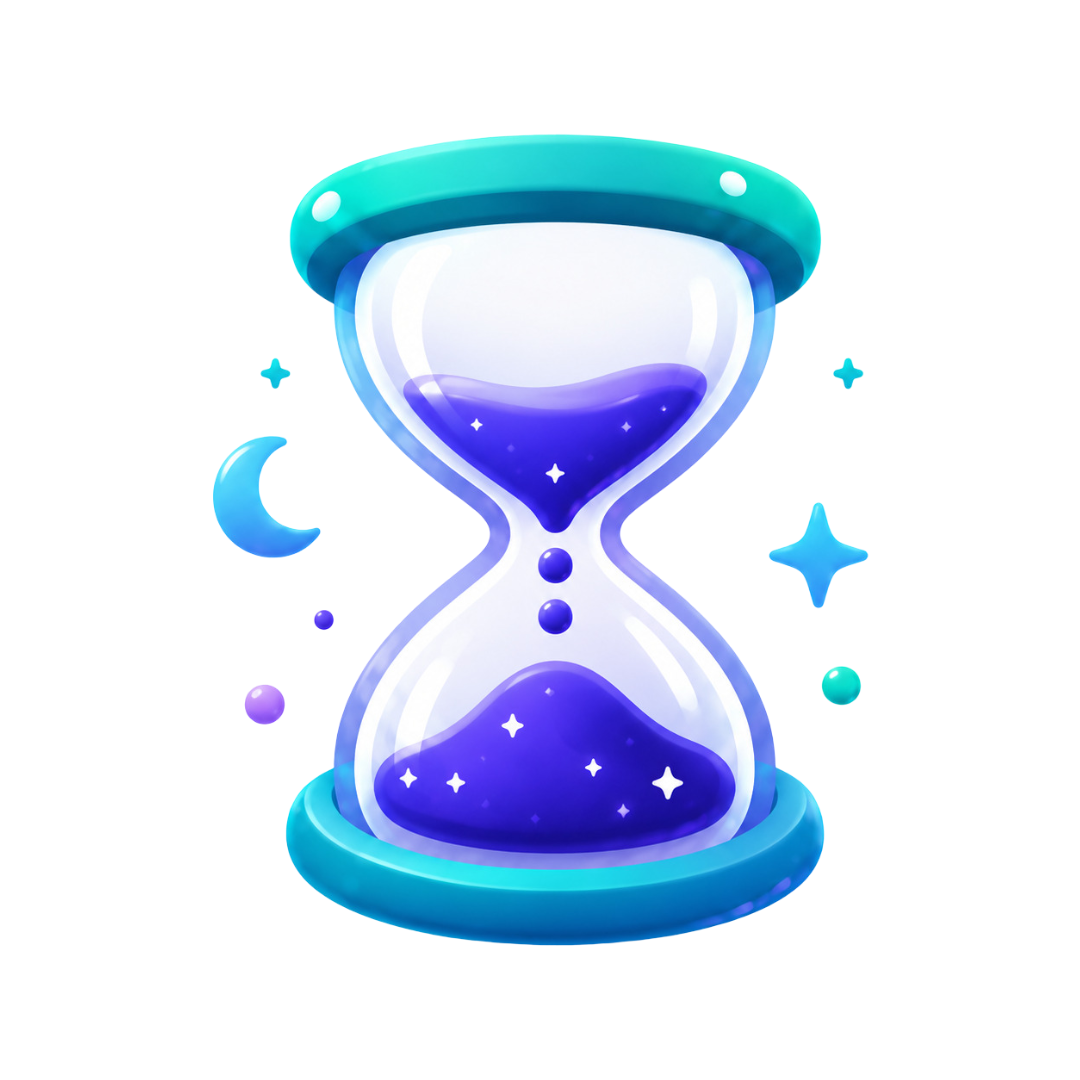
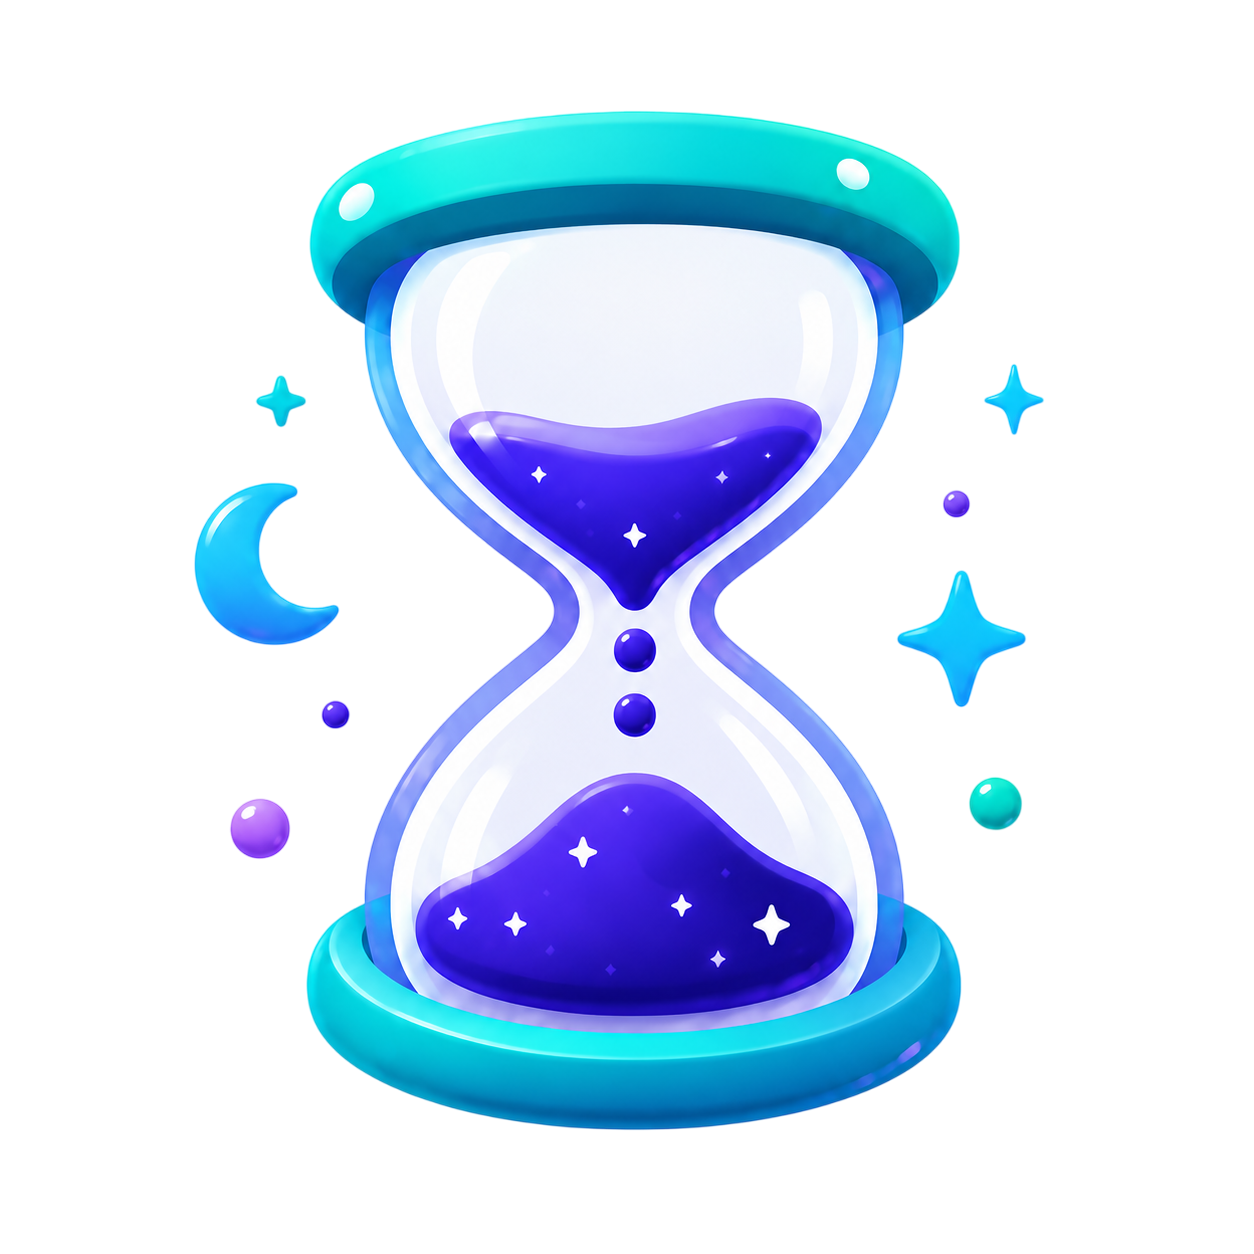
chore: release stasis 1.2.0
Bump the crate version to 1.2.0 for the Halley app-inhibit backend, optional StatusNotifier tray frontend, and refreshed application icon.

Update the changelog with the 2026-05-25 release date and add release notes for Halley support, `stasis tray`, the optional tray systemd/Nix integration, and the updated app icon.

Carry forward the latest main Stasis icon asset so README/project branding matches the refreshed release artwork.

diff --git a/CHANGELOG.md b/CHANGELOG.md
@@ -5,7 +5,23 @@ and this project adheres to [Semantic Versioning](https://semver.org/spec/v2.0.0
 
 ---
 
-## [1.1.1] - TBD
+## [1.2.0] - 2026-05-25
+
+### Added
+
+- **Halley app-inhibit support**
+  - Stasis now detects Halley sessions and queries `halleyctl node list --json` for app tracking.
+  - `inhibit_apps` patterns match Halley window `app_id` values such as `firefox`, `kitty`, or `steam_app_123`.
+  - Halley IPC failures keep the previous inhibitor count, matching the existing compositor backend behavior.
+
+- **Optional StatusNotifier tray frontend**
+  - Added `stasis tray`, an optional system tray frontend that leaves the daemon and Waybar JSON integration unchanged.
+  - The tray shows current daemon state in its tooltip and provides menu actions for toggle inhibit, pause, resume, reload config, and quitting only the tray process.
+  - Added a dedicated tray icon asset and optional `stasis-tray.service` systemd user unit.
+  - NixOS and Home Manager modules can enable the tray with `services.stasis.tray.enable`.
+
+- **Updated app icon**
+  - Refreshed the main Stasis icon asset used by README/project branding.
 
 ### Changed
 